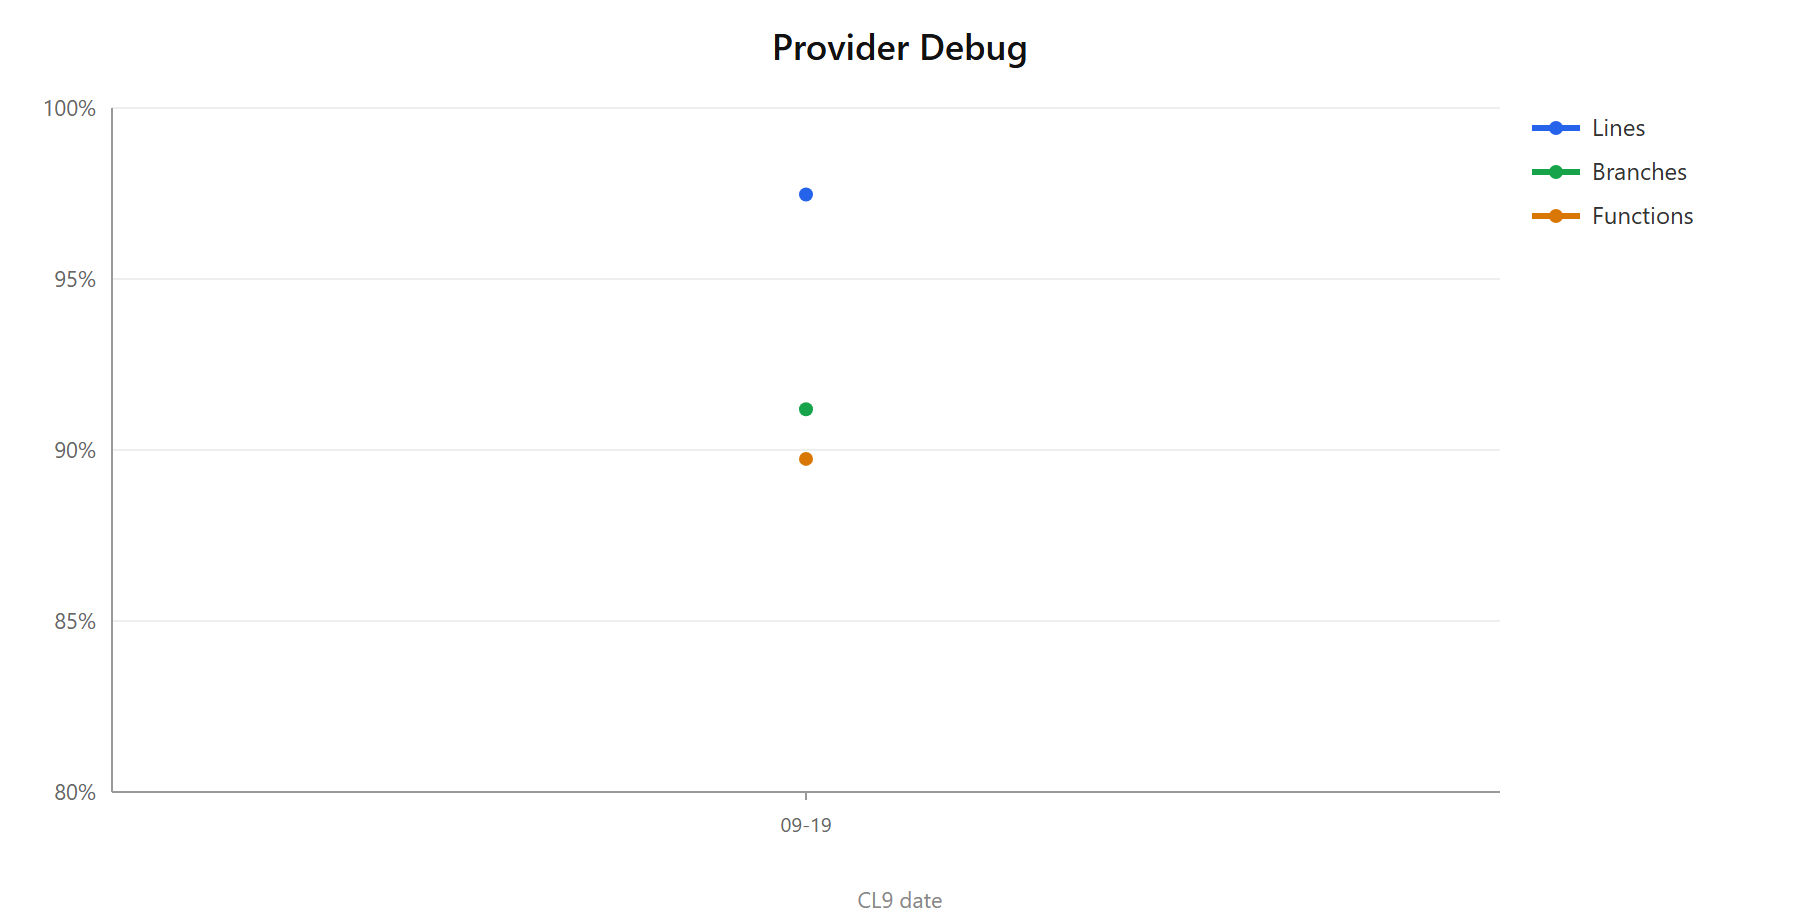
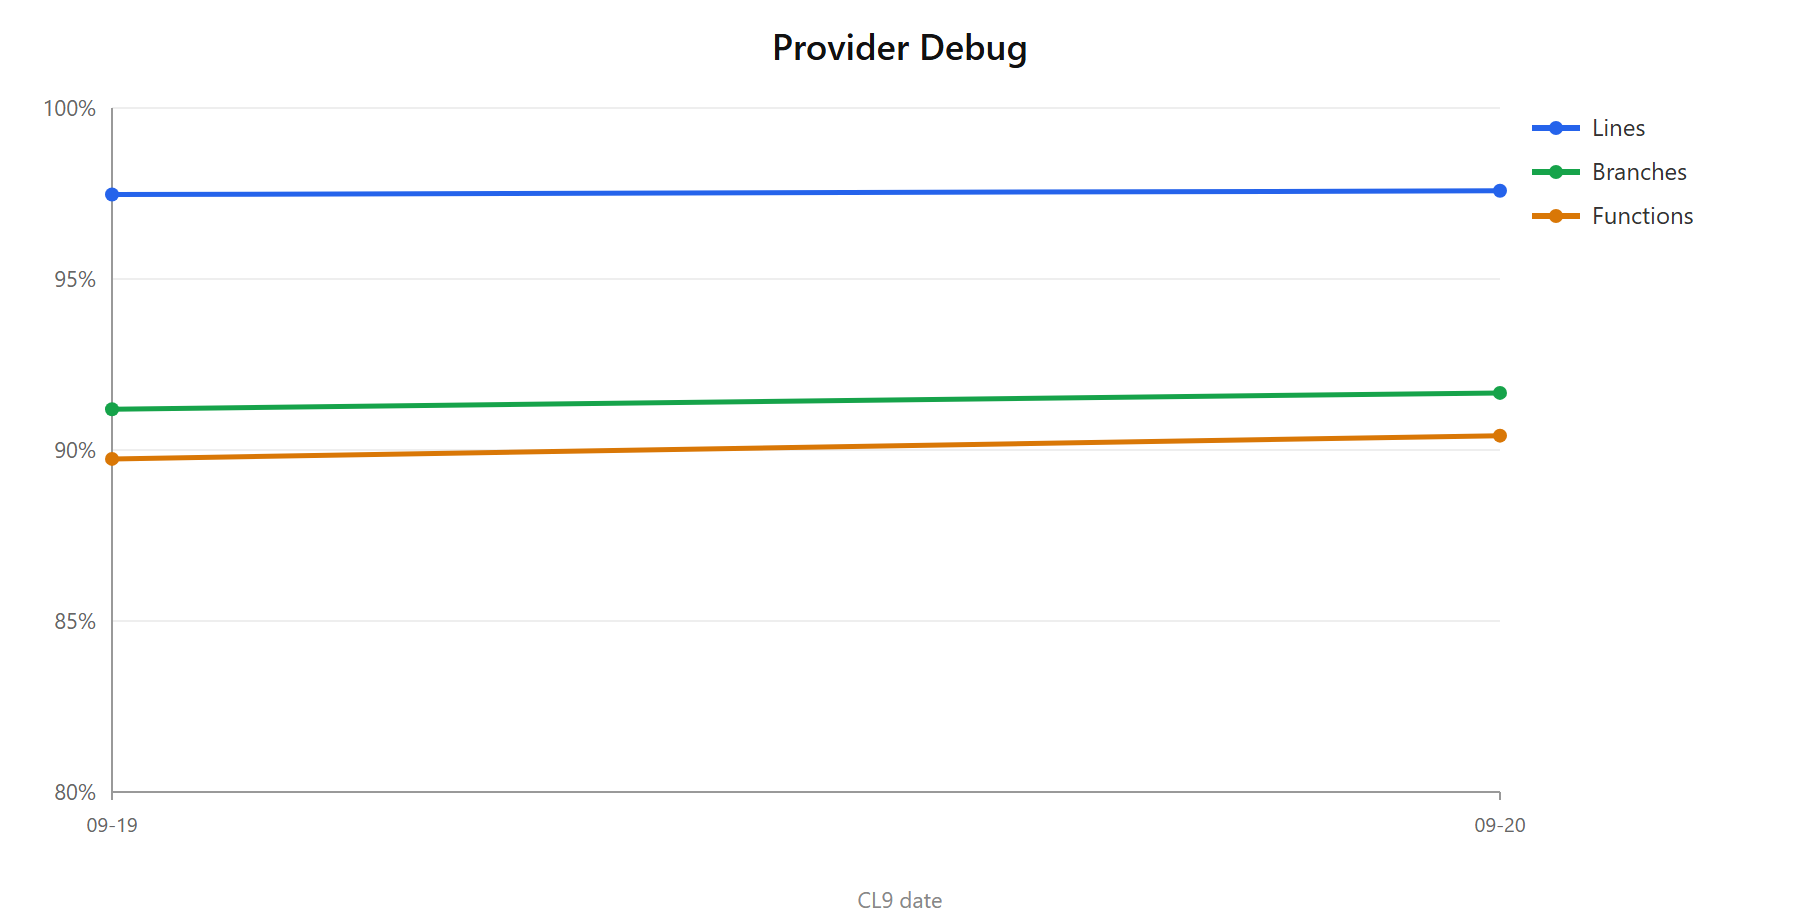
fix(provider-debug): un provider roto ya no puede tumbar el core desde este canal
addSubscriber() y removeSubscriber() son async y aqui no se esperaban: lo que fallase al otro
lado no acababa en una señal de este canal, acababa en un unhandled rejection, y el core sale
por su propio handler. Paso de verdad — suscribirse a 'trivy' sin payload mataba Kwirth entero.

Este canal existe para hurgar en providers ajenos, asi que es el ULTIMO sitio donde vale asumir
que el productor esta bien escrito; su getSubscriptionHelp() ya se trataba asi. Ahora el alta
manda la señal de error a quien esta mirando, la baja se anota en el log, y en los dos casos la
instancia se cierra igual.

+2 tests con dos dobles nuevos (withBrokenSubscribe/withBrokenUnsubscribe). node --test falla
el fichero si queda un rechazo sin atender, asi que cazan la regresion por si solos.

diff --git a/plugins/provider-debug/src/back/index.ts b/plugins/provider-debug/src/back/index.ts
@@ -246,14 +246,26 @@ class ProviderDebugChannel implements IChannel {
         }
         instance.subscriber = subscriber
         instance.provider = provider
-        provider.addSubscriber(subscriber, subscriptionData)
+        /*
+            addSubscriber() es async y aqui no se espera: sin catch, un provider que falle al dar de alta
+            al suscriptor no deja un error en este canal — deja un unhandled rejection, y el core sale.
+            Este canal existe para hurgar en providers ajenos, asi que es el ULTIMO sitio donde vale
+            asumir que el provider esta bien escrito. Paso justo con 'trivy' al suscribirse sin payload.
+        */
+        Promise.resolve(provider.addSubscriber(subscriber, subscriptionData)).catch(err => {
+            this.backChannelObject.logWarning?.(`Provider '${instance.providerId}' failed while adding the subscriber: ${String(err)}`)
+            this.sendSignalMessage(socket.ws, EInstanceMessageAction.START, EInstanceMessageFlow.RESPONSE, ESignalMessageLevel.ERROR, instance.instanceId, `Provider '${instance.providerId}' failed while adding the subscriber: ${String(err)}`)
+        })
         this.backChannelObject.logInfo?.(`Provider debug instance ${instance.instanceId} subscribed to provider '${instance.providerId}'`)
         this.sendSignalMessage(socket.ws, EInstanceMessageAction.START, EInstanceMessageFlow.RESPONSE, ESignalMessageLevel.INFO, instance.instanceId, `Subscribed to provider '${instance.providerId}'`)
     }
 
     private unsubscribe = (instance: IInstance): void => {
         if (instance.provider && instance.subscriber) {
-            instance.provider.removeSubscriber(instance.subscriber)
+            // Mismo motivo que en el alta: la baja tambien es async y tampoco se espera.
+            Promise.resolve(instance.provider.removeSubscriber(instance.subscriber)).catch(err => {
+                this.backChannelObject.logWarning?.(`Provider '${instance.providerId}' failed while removing the subscriber: ${String(err)}`)
+            })
             this.backChannelObject.logInfo?.(`Provider debug instance ${instance.instanceId} unsubscribed from provider '${instance.providerId}'`)
         }
         instance.provider = undefined

diff --git a/plugins/provider-debug/tests/back/ProviderDebugChannel.test.ts b/plugins/provider-debug/tests/back/ProviderDebugChannel.test.ts
@@ -135,6 +135,35 @@ describe('subscription', () => {
         assert.deepEqual(events.dataOf(subscriber), {})
     })
 
+    /*
+        Este canal existe para hurgar en providers ajenos, asi que es el ULTIMO sitio donde vale asumir
+        que el provider del otro lado esta bien escrito. addSubscriber()/removeSubscriber() son async y
+        aqui no se esperan: sin catch, lo que falle alli no acaba en una señal de este canal — acaba en
+        un unhandled rejection y el core sale por su propio handler. `node --test` falla el fichero si
+        queda algun rechazo sin atender, asi que estos dos tests cazan la regresion por si solos.
+    */
+    test('un provider que falla al dar de alta se reporta como error, sin dejar un rechazo sin atender', async () => {
+        const roto = new FakeProvider('trivy').withBrokenSubscribe()
+        const channel = makeChannel([roto])
+        const ws = new MockWs()
+        await start(channel, ws, 'i1', 'trivy')
+        await new Promise(resolve => setImmediate(resolve))
+
+        assert.ok(ws.signals().some(s => s.includes('failed while adding the subscriber')), `señales: ${JSON.stringify(ws.signals())}`)
+    })
+
+    test('un provider que falla al dar de baja tampoco deja un rechazo sin atender', async () => {
+        const roto = new FakeProvider('trivy').withBrokenUnsubscribe()
+        const channel = makeChannel([roto])
+        const ws = new MockWs()
+        const config = await start(channel, ws, 'i1', 'trivy')
+        channel.stopInstance(ws as unknown as WebSocket, config)
+        await new Promise(resolve => setImmediate(resolve))
+
+        // la instancia se va igual: la baja en el provider es cosa suya, no puede bloquear el cierre
+        assert.equal(channel.containsInstance('i1'), false)
+    })
+
     test('a provider that is not running is reported and nothing is subscribed', async () => {
         const events = new FakeProvider('events')
         const channel = makeChannel([events])

diff --git a/plugins/provider-debug/tests/helpers.ts b/plugins/provider-debug/tests/helpers.ts
@@ -68,6 +68,21 @@ export class FakeProvider implements IProvider {
         return this
     }
 
+    /*
+        Hace que el provider reviente al dar de alta o de baja al subscriber (encadenable). No es un
+        caso raro: addSubscriber() es async y este canal no espera su promesa, asi que un provider que
+        falle ahi se llevaba el core por delante con un unhandled rejection. Paso con 'trivy'.
+    */
+    withBrokenSubscribe(err = 'boom subscribing'): FakeProvider {
+        this.addSubscriber = async () => { throw new Error(err) }
+        return this
+    }
+
+    withBrokenUnsubscribe(err = 'boom unsubscribing'): FakeProvider {
+        this.removeSubscriber = async () => { throw new Error(err) }
+        return this
+    }
+
     addSubscriber = async (c: IProviderSubscriber, data: unknown) => { this.subscribers.set(c, data ?? {}) }
     removeSubscriber = async (c: IProviderSubscriber) => { this.subscribers.delete(c) }
     startProvider = async () => {}

diff --git a/plugins/provider-debug/docs/qa/test-metrics-history.md b/plugins/provider-debug/docs/qa/test-metrics-history.md
@@ -12,4 +12,5 @@
 
 | Fecha | Versión / tag | Harness | Cobertura (líneas / ramas / funcs) | e2e (specs / casos) | Notas |
 |---|---|---|---|---|---|
+| 2026-09-20 | `plugin/provider-debug@0.1.4` | **43** | **97.58% / 91.67% / 90.42%** | 3 / 28 | **Un provider mal escrito ya no puede tumbar el core desde este canal.** `addSubscriber()` y `removeSubscriber()` son async y aquí no se esperaban: lo que fallase al otro lado no acababa en una señal de este canal, acababa en un **unhandled rejection**, y el core sale por su propio handler. Pasó de verdad — suscribirse a `trivy` sin payload mataba Kwirth entero (`reportTypes is not iterable`, arreglado en `provider/trivy@0.1.9`). Ahora el alta y la baja van con su `catch`: el alta manda la señal de error a quien está mirando y la baja se anota en el log, y en los dos casos la instancia se cierra igual. Es el último sitio donde vale asumir que el productor está bien escrito: este canal existe precisamente para hurgar en providers ajenos, y ya trataba así su `getSubscriptionHelp()`. **+2 tests** con dos dobles nuevos (`withBrokenSubscribe`/`withBrokenUnsubscribe`); `node --test` falla el fichero si queda un rechazo sin atender, así que cazan la regresión por sí solos. |
 | 2026-09-19 | `plugin/provider-debug@0.1.3` | **41** | **97.47% / 91.19% / 89.74%** | 3 / 28 | **Depurar PLUVIDERS y rediseño del diálogo de setup.** Un pluvider —un plugin que además publica su información in-process— se lista, se configura y se depura **igual que un provider**: el canal resuelve por el prefijo `plugin:` contra el registro de pluviders en vez de contra `clusterInfo.providers`, y para quien depura la diferencia es solo un chip. El catálogo los marca con `pluvider: true` y su descripción, y el mensaje de "no disponible" es propio: un pluvider ausente suele ser un plugin que ni está instalado, no un provider que nadie arrancó. **Diálogo de setup rehecho en tres pestañas** (Overview / Form / JSON) dentro de un cuadro titulado con el id del productor —ni la descripción ni los campos son del diálogo, los declara el productor—, con `USE EXAMPLE` en Overview rellenando el payload y saltando a Form; form y JSON editan el MISMO estado, así que no hay dos sitios que sincronizar. 🐛 **Bug anterior al pluvider**: el `Tab` de Form estaba envuelto en un `Tooltip`, así que no era hijo directo de `Tabs` y no recibía su `onChange` — se salía a JSON y no se podía volver. 🐛 **Dos e2e atados al inventario**: exigían `kafka` y `otel` por id y se pusieron rojos el día que kafka dejó de estar instalado; ahora comprueban que la lista llega poblada y con el estado resuelto, sin nombrar extensiones instaladas. El caso "provider parado" se salta cuando el entorno no tiene ninguno (no se puede provocar desde la UI; la lógica la cubre el harness). Añadido soporte `COVERAGE=1` al runner, que no lo tenía. ⚠ **La medición cambió en este punto**: hasta aquí el informe promediaba un bundle por fichero de test, cada uno con su propia copia del src y su parcela cubierta, así que daba muy por debajo de lo real. Desde ahora COVERAGE=1 genera un entry único (una sola copia del src) y el número es la UNIÓN. El salto respecto a la fila anterior es de medición, no de tests. |
